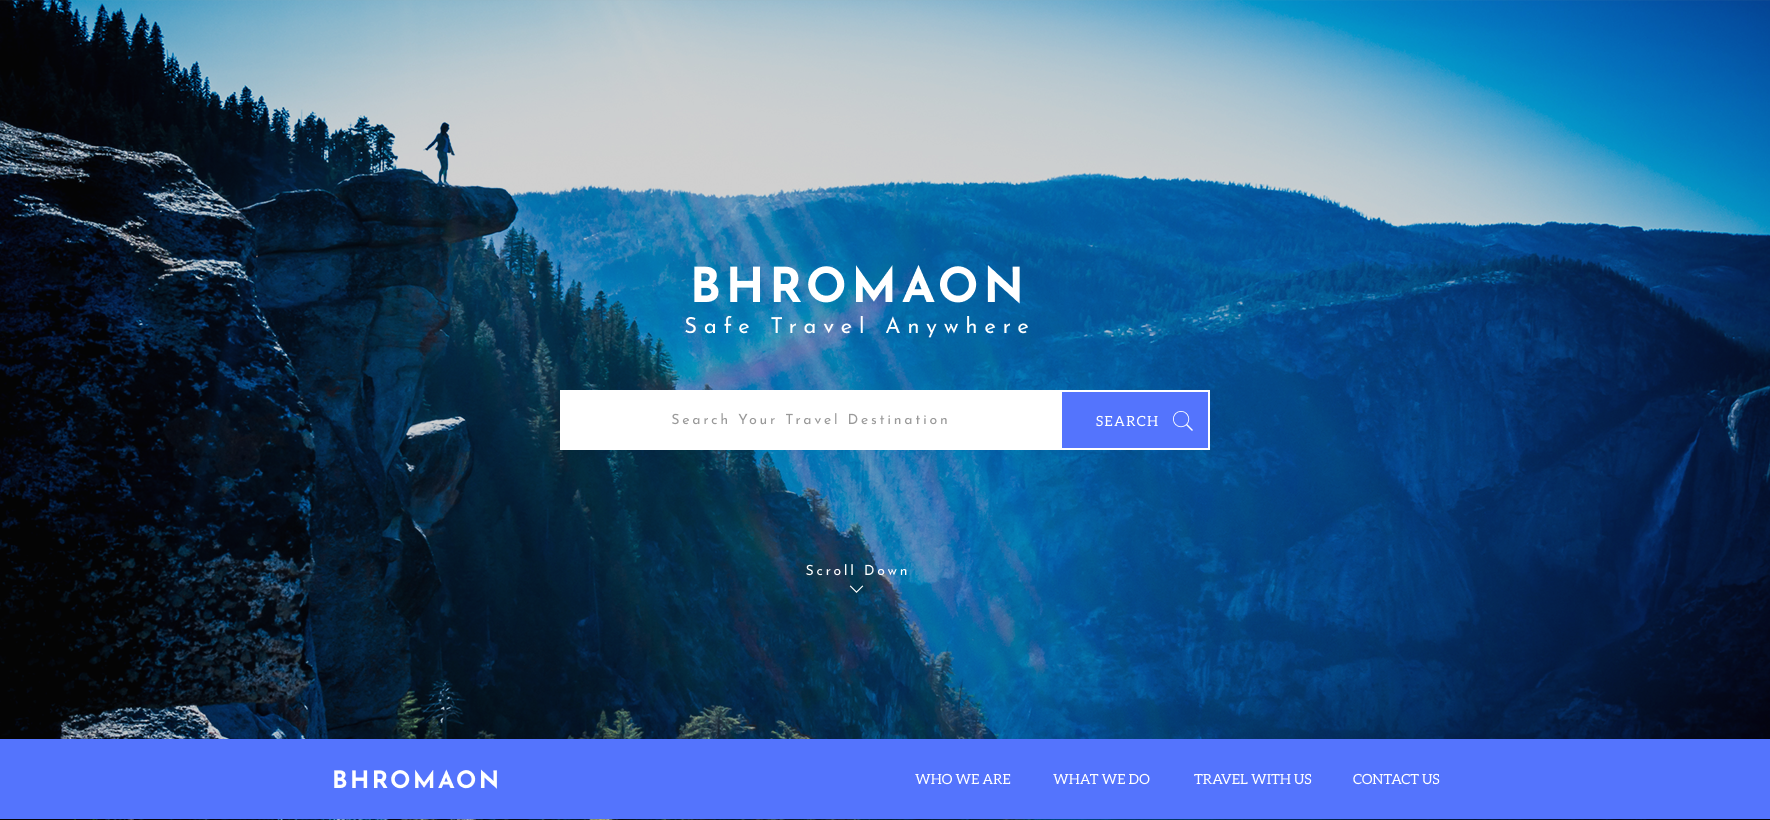
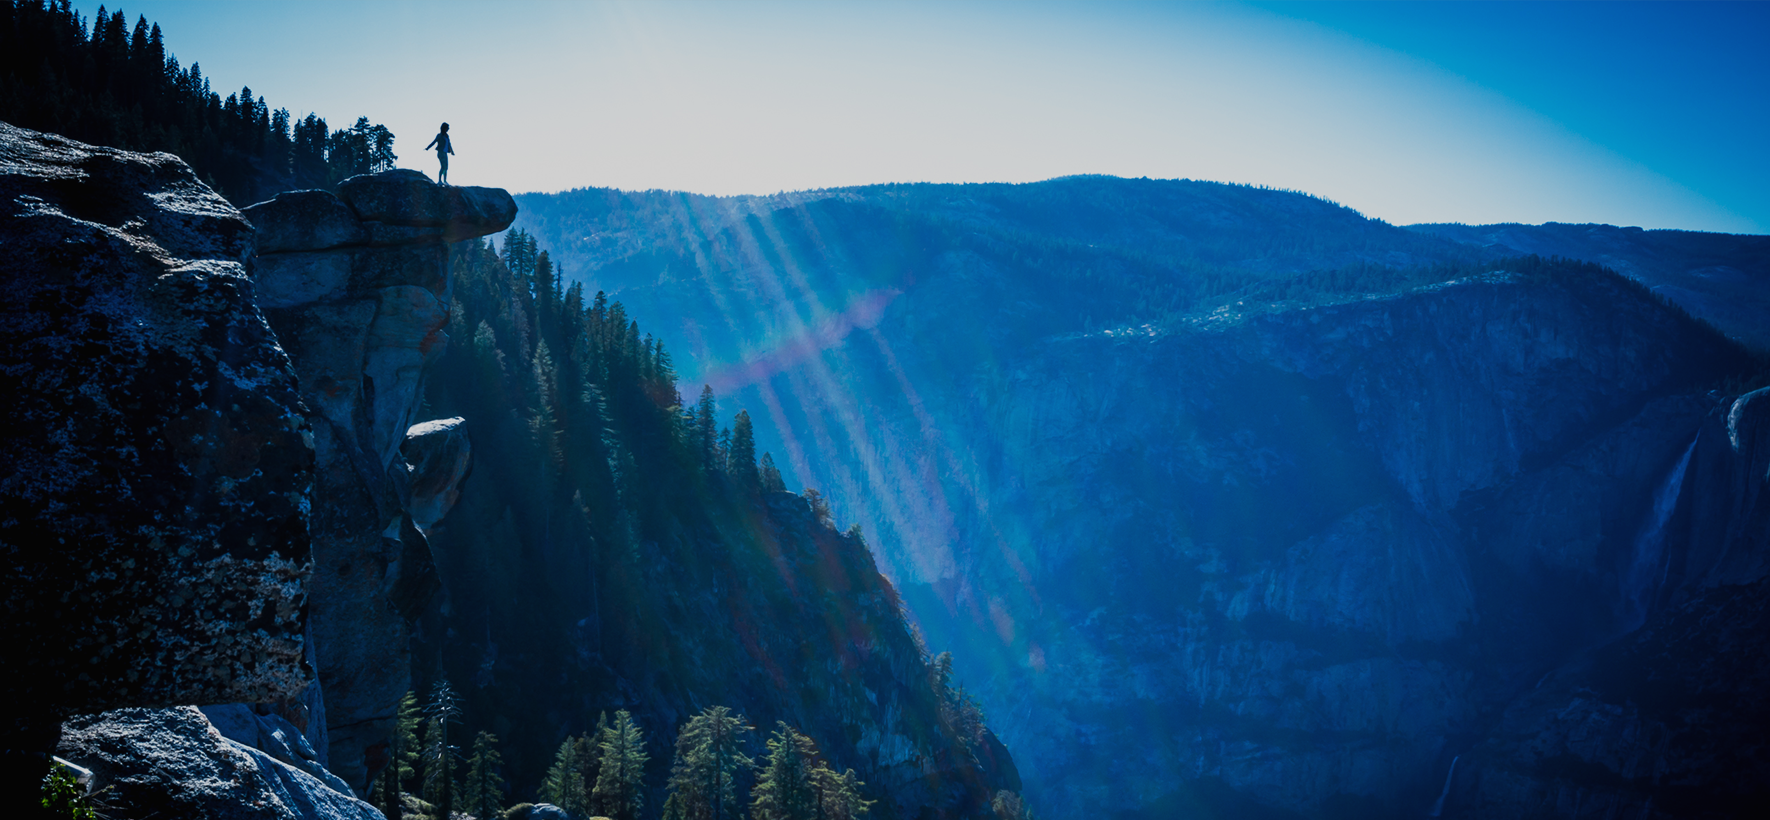
finished header

diff --git a/styles-lessons/lesson10-test.css b/styles-lessons/lesson10-test.css
@@ -1,0 +1,112 @@
+*{
+  box-sizing: border-box;
+}
+
+body{
+  margin: 0;
+  padding: 0;
+  height: 4241px;
+}
+
+.search-bar-section{
+  background-image: url(../lesson10-test/lesson10-images/first-photo.png);
+  height: 42.7vw;
+  width: 100%;
+  background-size: cover;
+  display: flex;
+  justify-content: center;
+  align-items: center;
+  font-family: josefin sans, sans-serif;
+}
+
+.search-bar-section > div{
+  height: 38.8%;
+  width: 34.3%;
+}
+
+.title-subtitle-container{
+  text-align: center;
+  display: flex;
+  flex-direction: column;
+  row-gap: 11px;
+}
+
+.title-subtitle-container > h1{
+  color: #FFF;
+  text-align: center;
+  font-size: 3rem;
+  font-weight: 700;
+  letter-spacing: 4.8px;
+  text-transform: uppercase;
+  margin: 0;
+}
+
+.title-subtitle-container > h2{
+  color: #FFF;
+  text-align: center;
+  font-size: 1.375rem;
+  font-weight: 400;
+  letter-spacing: 6.82px;
+  margin: 0;
+}
+
+.search-bar{
+  width: 100%;
+  display: flex;
+  align-items: center;
+  margin: 48px 0 107px 0;
+}
+
+.search-bar > input {
+  height: 63px;
+  width: 77%;
+  border: none;
+  background-color: #FFF;
+  padding: 0;
+  text-align: center;
+
+}
+
+.search-bar > button{
+  height: 63px;
+  width: 22.2%;
+  padding: 0;
+  border: 1px solid #FFF; 
+  background-color:#5474FD;
+  display: flex;
+  align-items: center;
+  justify-content: center;
+  column-gap: 6px;
+
+}
+
+.search-bar > button > span {
+  color: #FFF;
+  text-align: center;
+  font-family: Aleo;
+  font-size: 0.875rem;
+  font-weight: 400;
+  line-height: 26px; /* 185.714% */
+  letter-spacing: 1.4px;
+  text-transform: uppercase;
+}
+
+.scroll-down{
+  display: flex;
+  flex-direction: column;
+  row-gap: 12px;
+  align-items: center;
+}
+
+.scroll-down > p {
+  margin: 0;
+  color: #FFF;
+  font-size: 0.875rem;
+  letter-spacing: 2.8px;
+
+}
+
+.scroll-down img {
+  width: 17px;
+  height: 11px;
+}

diff --git a/lesson10-test/lesson10-test.html b/lesson10-test/lesson10-test.html
@@ -11,7 +11,26 @@
 </head>
 <body>
   <header>
-    <section class="search-bar-section"></section>
+    <section class="search-bar-section">
+      <div>
+        <div class="title-subtitle-container">
+        <h1>Bhromaon</h1>
+        <h2>Safe Travel Anywhere</h2>
+        </div>
+        <div class="search-bar">
+          <input type="text" id="text" name="search" placeholder="Search Your Travel Destination">
+          <button>
+            <span>Search</span>
+            <img src="../lesson10-test/lesson10-images/search-icon.svg" alt="search icon in the form of a magnifying glass">
+          </button>
+
+        </div>
+        <div class="scroll-down">
+          <p>Scroll Down</p>
+          <img src="../lesson10-test/lesson10-images/arrow-down-icon.svg" alt="arrow down icon">
+        </div>
+      </div>
+    </section>
   </header>
   <main>
     <nav></nav>
